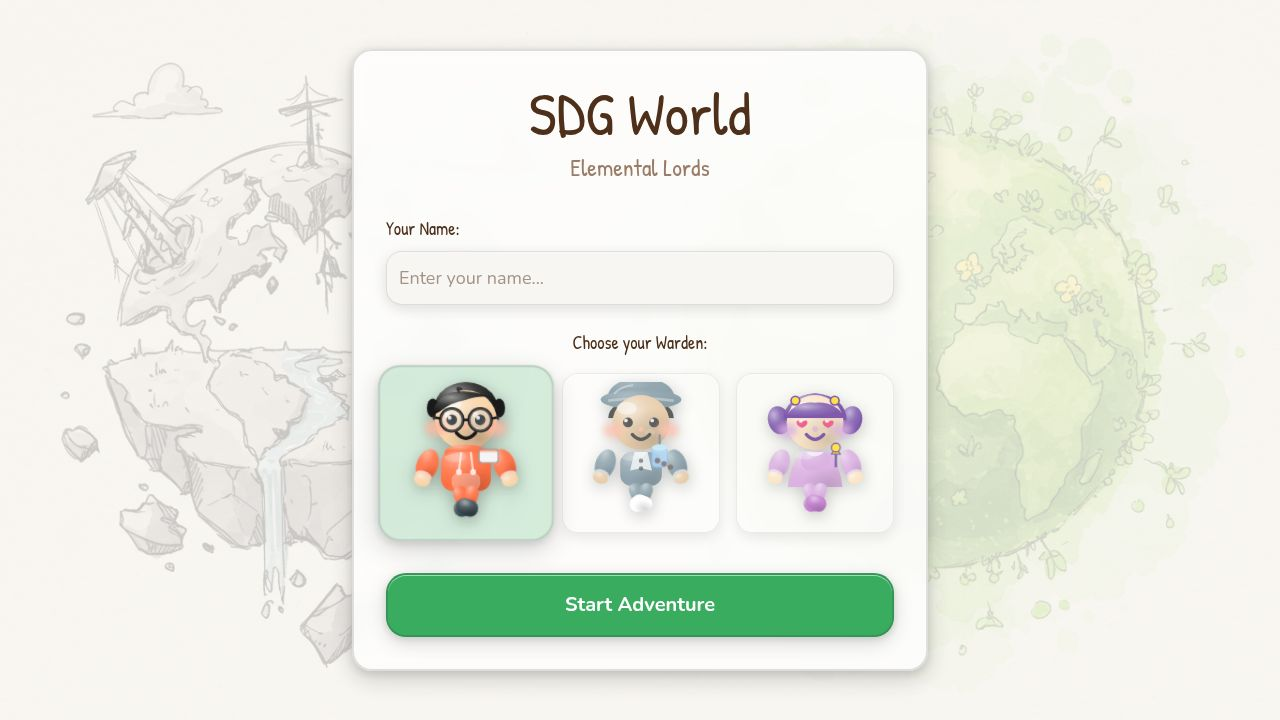
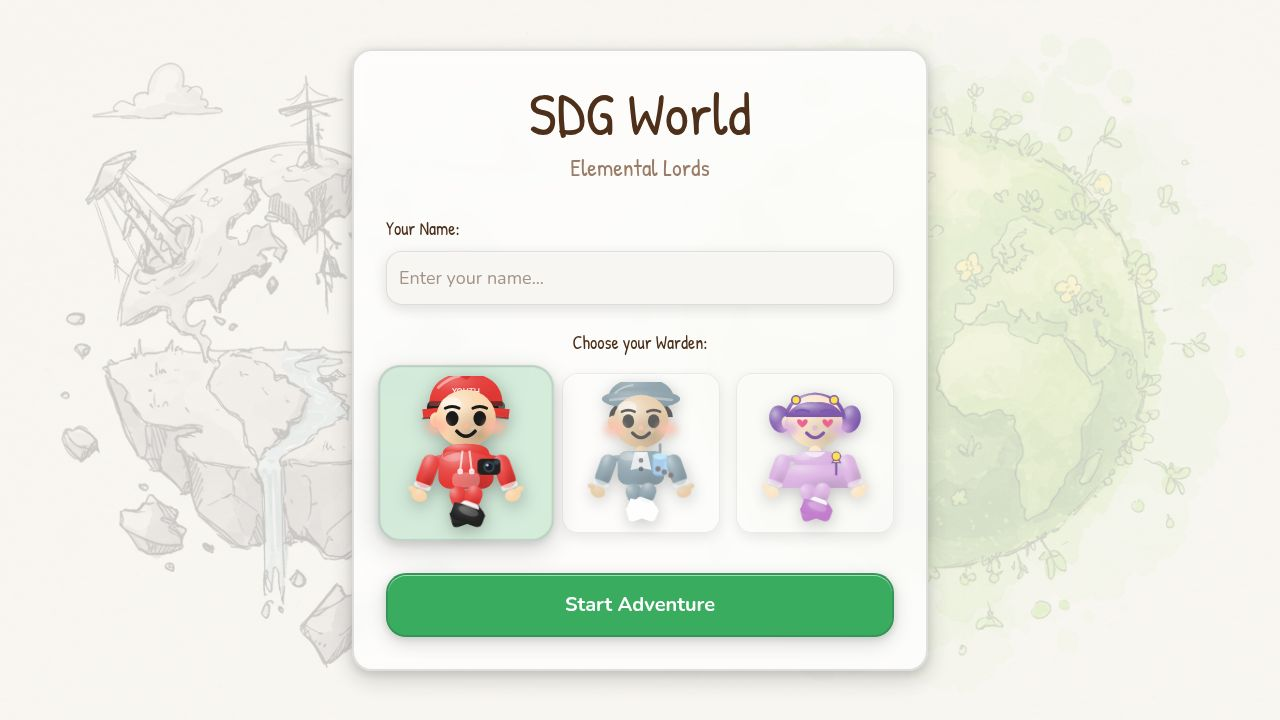
Update character appearance for a more realistic toy-like look
Refactors character rendering in Sprites.tsx to implement simpler eyes and more human-like body proportions, including updated arms, legs, neck, and shoes, while adjusting the viewBox.

Replit-Commit-Author: Agent
Replit-Commit-Session-Id: 5ccdf5bc-e649-49e1-9d17-90aec65a161f
Replit-Commit-Checkpoint-Type: full_checkpoint
Replit-Commit-Event-Id: a6274c83-2db0-4fce-a6d5-fd603afebf00
Replit-Commit-Screenshot-Url: https://storage.googleapis.com/screenshot-production-us-central1/ddc06cb5-4151-4347-ac95-d567a10546ce/5ccdf5bc-e649-49e1-9d17-90aec65a161f/QkIG3sg
Replit-Helium-Checkpoint-Created: true

Changed region(s): [[0.3125, 0.5194, 0.4062, 0.7333], [0.5938, 0.55, 0.6875, 0.7333], [0.4375, 0.55, 0.5625, 0.7028]]

diff --git a/artifacts/sdg-game/src/components/Sprites.tsx b/artifacts/sdg-game/src/components/Sprites.tsx
@@ -69,82 +69,43 @@ export const ChibiCharacter = ({
     determined: `M 43 50 L 57 50`,
   }[expression];
 
-  /* ── vinyl toy eye: large sclera → dark iris → pupil → catchlights ── */
+  /* ── clean amiibo-style eye: simple solid oval, no sclera detail ── */
   const eyeEl = (cx: number, cy: number) => {
     if (eyeStyle === 'crescent') return (
-      <g>
-        {/* sclera */}
-        <ellipse cx={cx} cy={cy} rx="8" ry="7.5" fill="white" />
-        <ellipse cx={cx} cy={cy} rx="8" ry="7.5" fill="none" stroke={hairColor} strokeWidth="1.5" opacity="0.5" />
-        {/* crescent/happy squint */}
-        <path d={`M ${cx-6} ${cy+1} Q ${cx} ${cy-8} ${cx+6} ${cy+1}`}
-          fill="none" stroke={hairColor} strokeWidth="3.5" strokeLinecap="round" />
-        <circle cx={cx-3} cy={cy-2} r="1.5" fill="white" opacity="0.75" />
-      </g>
+      /* happy closed eye — just a smooth curved stroke */
+      <path d={`M ${cx-6} ${cy+2} Q ${cx} ${cy-6} ${cx+6} ${cy+2}`}
+        fill="none" stroke={hairColor} strokeWidth="3.5" strokeLinecap="round" />
     );
     if (eyeStyle === 'hearts') return (
-      <g>
-        <ellipse cx={cx} cy={cy} rx="8.5" ry="8" fill="white" />
-        <path d={`M ${cx} ${cy+2} C ${cx} ${cy-2} ${cx-6} ${cy-4} ${cx-6} ${cy} C ${cx-6} ${cy+4} ${cx} ${cy+7} ${cx} ${cy+7} C ${cx} ${cy+7} ${cx+6} ${cy+4} ${cx+6} ${cy} C ${cx+6} ${cy-4} ${cx} ${cy-2} ${cx} ${cy+2} Z`} fill="#E91E63" />
-        <circle cx={cx-2} cy={cy-1} r="2" fill="white" opacity="0.8" />
-        <ellipse cx={cx} cy={cy} rx="8.5" ry="8" fill="none" stroke={hairColor} strokeWidth="1.5" opacity="0.4" />
-      </g>
+      <path d={`M ${cx} ${cy+1} C ${cx} ${cy-2} ${cx-5} ${cy-3} ${cx-5} ${cy} C ${cx-5} ${cy+3} ${cx} ${cy+6} ${cx} ${cy+6} C ${cx} ${cy+6} ${cx+5} ${cy+3} ${cx+5} ${cy} C ${cx+5} ${cy-3} ${cx} ${cy-2} ${cx} ${cy+1} Z`}
+        fill="#E91E63" />
     );
     if (eyeStyle === 'starry') return (
       <g>
-        {/* sclera */}
-        <ellipse cx={cx} cy={cy} rx="8.5" ry="8" fill="white" />
-        {/* iris — deep dark */}
-        <circle cx={cx} cy={cy+0.5} r="6" fill="#1A1A1A" />
-        {/* star burst */}
-        {[0,45,90,135,180,225,270,315].map((a,i) => {
-          const r = (a * Math.PI) / 180;
-          return <line key={i} x1={cx} y1={cy+0.5} x2={cx+5*Math.cos(r)} y2={cy+0.5+5*Math.sin(r)} stroke="#FFD700" strokeWidth="1" opacity="0.6" />;
-        })}
-        <circle cx={cx} cy={cy+0.5} r="3" fill="#1A1A1A" />
-        {/* catchlights */}
-        <circle cx={cx-2.5} cy={cy-2.5} r="2.5" fill="white" opacity="0.95" />
-        <circle cx={cx+2.5} cy={cy+2} r="1.3" fill="white" opacity="0.6" />
-        <ellipse cx={cx} cy={cy} rx="8.5" ry="8" fill="none" stroke={hairColor} strokeWidth="1.5" opacity="0.35" />
+        <ellipse cx={cx} cy={cy} rx="5.5" ry="6.5" fill={hairColor} />
+        <circle cx={cx-2} cy={cy-2.5} r="1.5" fill="white" opacity="0.85" />
+        <circle cx={cx+2} cy={cy+2} r="0.8" fill="white" opacity="0.6" />
       </g>
     );
-    /* dots — the default: big realistic vinyl toy eye */
-    return (
-      <g>
-        {/* sclera */}
-        <ellipse cx={cx} cy={cy} rx="8.5" ry="8" fill="white" />
-        {/* iris */}
-        <circle cx={cx} cy={cy+0.5} r="5.8" fill="#1A1010" />
-        {/* pupil */}
-        <circle cx={cx} cy={cy+0.5} r="3.2" fill="#0A0A0A" />
-        {/* main catchlight — big and bright */}
-        <circle cx={cx-2.8} cy={cy-2.5} r="2.8" fill="white" opacity="0.98" />
-        {/* secondary small catchlight */}
-        <circle cx={cx+2.6} cy={cy+2.4} r="1.3" fill="white" opacity="0.65" />
-        {/* subtle limbal ring / iris highlight */}
-        <circle cx={cx} cy={cy+0.5} r="5.8" fill="none" stroke="white" strokeWidth="0.8" opacity="0.15" />
-        {/* outline */}
-        <ellipse cx={cx} cy={cy} rx="8.5" ry="8" fill="none" stroke={hairColor} strokeWidth="1.5" opacity="0.35" />
-      </g>
-    );
+    /* dots / default — plain solid oval, clean amiibo look */
+    return <ellipse cx={cx} cy={cy} rx="5.5" ry="6.5" fill={hairColor} />;
   };
 
-  /* ── eyebrow shape per expression ── */
+  /* ── thin expressive eyebrows ── */
   const browEl = (cx: number) => {
-    const y = 27;
+    const y = 28;
     if (expression === 'sad')
-      return <path d={`M ${cx-7} ${y-1} Q ${cx} ${y+3} ${cx+7} ${y-1}`} fill="none" stroke={hairColor} strokeWidth="3.5" strokeLinecap="round" />;
+      return <path d={`M ${cx-6} ${y-1} Q ${cx} ${y+3} ${cx+6} ${y-1}`} fill="none" stroke={hairColor} strokeWidth="2.5" strokeLinecap="round" />;
     if (expression === 'surprised')
-      return <path d={`M ${cx-7} ${y+1} Q ${cx} ${y-4} ${cx+7} ${y+1}`} fill="none" stroke={hairColor} strokeWidth="3.5" strokeLinecap="round" />;
+      return <path d={`M ${cx-6} ${y+1} Q ${cx} ${y-4} ${cx+6} ${y+1}`} fill="none" stroke={hairColor} strokeWidth="2.5" strokeLinecap="round" />;
     if (expression === 'determined')
-      return <line x1={cx-7} y1={y+1} x2={cx+7} y2={y+1} stroke={hairColor} strokeWidth="3.5" strokeLinecap="round" />;
-    /* happy / default — gentle arch */
-    return <path d={`M ${cx-7} ${y} Q ${cx} ${y-4} ${cx+7} ${y}`} fill="none" stroke={hairColor} strokeWidth="3.5" strokeLinecap="round" />;
+      return <line x1={cx-6} y1={y} x2={cx+6} y2={y} stroke={hairColor} strokeWidth="2.5" strokeLinecap="round" />;
+    return <path d={`M ${cx-6} ${y} Q ${cx} ${y-3} ${cx+6} ${y}`} fill="none" stroke={hairColor} strokeWidth="2.5" strokeLinecap="round" />;
   };
 
   return (
     <svg
-      viewBox="0 0 100 130"
+      viewBox="0 0 100 134"
       className={cn("w-full h-full", isWalking && "animate-walk", className)}
       style={{ filter: 'drop-shadow(1px 4px 8px rgba(0,0,0,0.30))', ...style }}
     >
@@ -364,131 +325,156 @@ export const ChibiCharacter = ({
       {/* ════ HAIR ACCESSORY ════ */}
       {hairAccessory}
 
-      {/* ════ BODY — clay 3D ════ */}
+      {/* ════ NECK ════ */}
+      <rect x="44" y="60" width="12" height="13" rx="6" fill={skinColor} />
+      <rect x="44" y="60" width="12" height="13" rx="6" fill={HL} opacity="0.5" />
+
+      {/* ════ BODY — human-proportioned torso ════ */}
+
+      {/* --- Base torso shape (common to all outfits) --- */}
+      {/* Shoulders */}
+      <rect x="22" y="69" width="56" height="6" rx="5" fill={outfitColor} />
+      <rect x="22" y="69" width="56" height="6" rx="5" fill={BHL} />
+
       {outfitStyle === 'overalls' && (
         <>
-          <rect x="37" y="63" width="26" height="25" rx="8" fill={collarColor} />
-          <rect x="37" y="63" width="26" height="25" rx="8" fill={BHL} />
-          <rect x="31" y="64" width="38" height="31" rx="10" fill={outfitColor} />
-          <rect x="31" y="64" width="38" height="31" rx="10" fill={BHL} />
-          <rect x="31" y="64" width="38" height="31" rx="10" fill={BSH} />
-          <rect x="39" y="63" width="22" height="16" rx="7" fill={outfitColor} />
-          <rect x="39" y="63" width="22" height="16" rx="7" fill={BHL} />
-          <path d="M 39 65 Q 34 62 32 66" fill="none" stroke={outfitColor} strokeWidth="3.5" strokeLinecap="round" />
-          <path d="M 61 65 Q 66 62 68 66" fill="none" stroke={outfitColor} strokeWidth="3.5" strokeLinecap="round" />
-          <circle cx="50" cy="71" r="2.5" fill={hairColor} opacity="0.75" />
-          <ellipse cx="40" cy="67" rx="8" ry="4" fill="white" opacity="0.22" />
+          {/* Shirt underbase */}
+          <rect x="30" y="66" width="40" height="32" rx="8" fill={collarColor} />
+          <rect x="30" y="66" width="40" height="32" rx="8" fill={BHL} opacity="0.5" />
+          {/* Overall bib */}
+          <rect x="38" y="65" width="24" height="19" rx="6" fill={outfitColor} />
+          <rect x="38" y="65" width="24" height="19" rx="6" fill={BHL} />
+          {/* Overall body */}
+          <rect x="28" y="74" width="44" height="24" rx="7" fill={outfitColor} />
+          <rect x="28" y="74" width="44" height="24" rx="7" fill={BHL} />
+          <rect x="28" y="74" width="44" height="24" rx="7" fill={BSH} />
+          {/* Straps */}
+          <path d="M 38 67 Q 34 64 30 68" fill="none" stroke={outfitColor} strokeWidth="4" strokeLinecap="round" />
+          <path d="M 62 67 Q 66 64 70 68" fill="none" stroke={outfitColor} strokeWidth="4" strokeLinecap="round" />
+          <circle cx="50" cy="72" r="2.5" fill={hairColor} opacity="0.7" />
+          <ellipse cx="39" cy="69" rx="7" ry="3.5" fill="white" opacity="0.22" />
         </>
       )}
       {outfitStyle === 'dress' && (
         <>
-          <path d="M 37 64 Q 27 76 25 96 L 75 96 Q 73 76 63 64 Z" fill={outfitColor} />
-          <path d="M 37 64 Q 27 76 25 96 L 75 96 Q 73 76 63 64 Z" fill={BHL} />
-          <path d="M 37 64 Q 27 76 25 96 L 75 96 Q 73 76 63 64 Z" fill={BSH} />
-          <rect x="37" y="63" width="26" height="18" rx="9" fill={outfitColor} />
-          <rect x="37" y="63" width="26" height="18" rx="9" fill={BHL} />
-          <path d="M 42 64 Q 50 72 58 64" fill={collarColor} opacity="0.95" />
-          <ellipse cx="41" cy="67" rx="8" ry="4" fill="white" opacity="0.22" />
+          {/* Bodice */}
+          <rect x="30" y="65" width="40" height="20" rx="9" fill={outfitColor} />
+          <rect x="30" y="65" width="40" height="20" rx="9" fill={BHL} />
+          {/* Skirt flare */}
+          <path d="M 30 78 Q 18 88 16 100 L 84 100 Q 82 88 70 78 Z" fill={outfitColor} />
+          <path d="M 30 78 Q 18 88 16 100 L 84 100 Q 82 88 70 78 Z" fill={BHL} />
+          <path d="M 30 78 Q 18 88 16 100 L 84 100 Q 82 88 70 78 Z" fill={BSH} />
+          <path d="M 40 66 Q 50 76 60 66" fill={collarColor} opacity="0.95" />
+          <ellipse cx="38" cy="70" rx="8" ry="4" fill="white" opacity="0.22" />
         </>
       )}
       {outfitStyle === 'jacket' && (
         <>
-          <rect x="31" y="64" width="38" height="31" rx="10" fill={outfitColor} />
-          <rect x="31" y="64" width="38" height="31" rx="10" fill={BHL} />
-          <rect x="31" y="64" width="38" height="31" rx="10" fill={BSH} />
-          <path d="M 44 64 Q 50 74 56 64" fill={collarColor} />
-          <path d="M 44 64 L 40 81 L 50 79 L 60 81 L 56 64" fill={collarColor} opacity="0.88" />
-          <circle cx="50" cy="72" r="2" fill={hairColor} opacity="0.65" />
-          <circle cx="50" cy="79" r="2" fill={hairColor} opacity="0.65" />
-          <ellipse cx="40" cy="68" rx="8" ry="4" fill="white" opacity="0.22" />
+          <rect x="28" y="65" width="44" height="32" rx="9" fill={outfitColor} />
+          <rect x="28" y="65" width="44" height="32" rx="9" fill={BHL} />
+          <rect x="28" y="65" width="44" height="32" rx="9" fill={BSH} />
+          {/* Lapels */}
+          <path d="M 44 66 Q 50 76 56 66" fill={collarColor} />
+          <path d="M 44 66 L 40 83 L 50 81 L 60 83 L 56 66" fill={collarColor} opacity="0.88" />
+          <circle cx="50" cy="74" r="2.2" fill={hairColor} opacity="0.65" />
+          <circle cx="50" cy="82" r="2.2" fill={hairColor} opacity="0.65" />
+          <ellipse cx="38" cy="70" rx="8" ry="4" fill="white" opacity="0.22" />
         </>
       )}
       {outfitStyle === 'uniform' && (
         <>
-          <rect x="33" y="64" width="34" height="29" rx="9" fill={outfitColor} />
-          <rect x="33" y="64" width="34" height="29" rx="9" fill={BHL} />
-          <rect x="33" y="64" width="34" height="29" rx="9" fill={BSH} />
-          <rect x="42" y="63" width="16" height="12" rx="6" fill={collarColor} />
-          <rect x="35" y="71" width="12" height="10" rx="3" fill={collarColor} opacity="0.9" />
-          <text x="41" y="78.5" textAnchor="middle" fontSize="5" fill={hairColor}>✦</text>
-          <ellipse cx="43" cy="68" rx="8" ry="4" fill="white" opacity="0.22" />
+          <rect x="30" y="65" width="40" height="31" rx="9" fill={outfitColor} />
+          <rect x="30" y="65" width="40" height="31" rx="9" fill={BHL} />
+          <rect x="30" y="65" width="40" height="31" rx="9" fill={BSH} />
+          <rect x="41" y="64" width="18" height="12" rx="6" fill={collarColor} />
+          <rect x="32" y="73" width="14" height="11" rx="3" fill={collarColor} opacity="0.9" />
+          <text x="39" y="81" textAnchor="middle" fontSize="5" fill={hairColor}>✦</text>
+          <ellipse cx="40" cy="70" rx="8" ry="4" fill="white" opacity="0.22" />
         </>
       )}
       {outfitStyle === 'coat' && (
         <>
-          <rect x="29" y="64" width="42" height="33" rx="10" fill={outfitColor} />
-          <rect x="29" y="64" width="42" height="33" rx="10" fill={BHL} />
-          <rect x="29" y="64" width="42" height="33" rx="10" fill={BSH} />
-          <rect x="43" y="63" width="14" height="20" rx="6" fill={collarColor} opacity="0.9" />
-          <circle cx="50" cy="74" r="2.2" fill={hairColor} opacity="0.7" />
-          <circle cx="50" cy="81" r="2.2" fill={hairColor} opacity="0.7" />
-          <circle cx="50" cy="88" r="2.2" fill={hairColor} opacity="0.7" />
-          <ellipse cx="41" cy="68" rx="9" ry="4.5" fill="white" opacity="0.22" />
+          <rect x="26" y="65" width="48" height="33" rx="10" fill={outfitColor} />
+          <rect x="26" y="65" width="48" height="33" rx="10" fill={BHL} />
+          <rect x="26" y="65" width="48" height="33" rx="10" fill={BSH} />
+          <rect x="42" y="64" width="16" height="22" rx="7" fill={collarColor} opacity="0.9" />
+          <circle cx="50" cy="76" r="2.5" fill={hairColor} opacity="0.7" />
+          <circle cx="50" cy="84" r="2.5" fill={hairColor} opacity="0.7" />
+          <circle cx="50" cy="92" r="2.5" fill={hairColor} opacity="0.7" />
+          <ellipse cx="38" cy="70" rx="9" ry="4.5" fill="white" opacity="0.22" />
         </>
       )}
       {outfitStyle === 'hoodie' && (
         <>
-          {/* Hoodie body */}
-          <rect x="29" y="63" width="42" height="34" rx="10" fill={outfitColor} />
-          <rect x="29" y="63" width="42" height="34" rx="10" fill={BHL} />
-          <rect x="29" y="63" width="42" height="34" rx="10" fill={BSH} />
-          {/* Hood collar behind head (drawn before head in z-order but fine here) */}
-          <path d="M 32 64 Q 34 58 50 58 Q 66 58 68 64 L 68 68 Q 60 64 50 64 Q 40 64 32 68 Z" fill={outfitColor} />
-          <path d="M 32 64 Q 34 58 50 58 Q 66 58 68 64 L 68 68 Q 60 64 50 64 Q 40 64 32 68 Z" fill={BHL} />
-          {/* Drawstrings */}
-          <line x1="46" y1="64" x2="44" y2="80" stroke={collarColor} strokeWidth="1.8" opacity="0.7" />
-          <line x1="54" y1="64" x2="56" y2="80" stroke={collarColor} strokeWidth="1.8" opacity="0.7" />
-          <ellipse cx="44" cy="81" rx="2.5" ry="2.5" fill={collarColor} opacity="0.8" />
-          <ellipse cx="56" cy="81" rx="2.5" ry="2.5" fill={collarColor} opacity="0.8" />
-          {/* Kangaroo pocket */}
-          <rect x="38" y="82" width="24" height="14" rx="5" fill={collarColor} opacity="0.3" />
-          <ellipse cx="41" cy="68" rx="9" ry="4.5" fill="white" opacity="0.20" />
+          <rect x="26" y="65" width="48" height="33" rx="10" fill={outfitColor} />
+          <rect x="26" y="65" width="48" height="33" rx="10" fill={BHL} />
+          <rect x="26" y="65" width="48" height="33" rx="10" fill={BSH} />
+          {/* Hood cowl */}
+          <path d="M 30 66 Q 32 59 50 59 Q 68 59 70 66 L 70 71 Q 62 66 50 66 Q 38 66 30 71 Z" fill={outfitColor} />
+          <path d="M 30 66 Q 32 59 50 59 Q 68 59 70 66 L 70 71 Q 62 66 50 66 Q 38 66 30 71 Z" fill={BHL} />
+          <line x1="47" y1="65" x2="45" y2="82" stroke={collarColor} strokeWidth="1.8" opacity="0.7" />
+          <line x1="53" y1="65" x2="55" y2="82" stroke={collarColor} strokeWidth="1.8" opacity="0.7" />
+          <ellipse cx="45" cy="83" rx="2.5" ry="2.5" fill={collarColor} opacity="0.8" />
+          <ellipse cx="55" cy="83" rx="2.5" ry="2.5" fill={collarColor} opacity="0.8" />
+          <rect x="38" y="84" width="24" height="13" rx="5" fill={collarColor} opacity="0.3" />
+          <ellipse cx="38" cy="70" rx="9" ry="4.5" fill="white" opacity="0.20" />
         </>
       )}
 
-      {/* ════ ARMS — outfit sleeves with skin hands ════ */}
+      {/* ════ ARMS — long human arms with hands ════ */}
+      {/* Left arm */}
       <g className="chibi-arm-l">
-        {/* Sleeve */}
-        <ellipse cx="21" cy="76" rx="9" ry="14" fill={outfitColor} />
-        <ellipse cx="21" cy="76" rx="9" ry="14" fill={BHL} />
-        <ellipse cx="21" cy="76" rx="9" ry="14" fill={BSH} />
-        {/* Cuff highlight */}
-        <ellipse cx="21" cy="85" rx="7" ry="3.5" fill={collarColor} opacity="0.7" />
-        {/* Hand */}
-        <ellipse cx="21" cy="89" rx="7" ry="5.5" fill={skinColor} />
-        <ellipse cx="21" cy="89" rx="7" ry="5.5" fill={HL} />
+        {/* Upper sleeve */}
+        <rect x="13" y="68" width="15" height="30" rx="7.5" fill={outfitColor} />
+        <rect x="13" y="68" width="15" height="30" rx="7.5" fill={BHL} />
+        <rect x="13" y="68" width="15" height="30" rx="7.5" fill={BSH} />
+        {/* Cuff */}
+        <rect x="13" y="94" width="15" height="5" rx="2.5" fill={collarColor} opacity="0.65" />
+        {/* Hand — open oval paddle */}
+        <ellipse cx="20.5" cy="105" rx="7" ry="5.5" fill={skinColor} />
+        <ellipse cx="20.5" cy="105" rx="7" ry="5.5" fill={HL} opacity="0.5" />
+        {/* Thumb nub */}
+        <ellipse cx="13" cy="102" rx="3.5" ry="2.5" fill={skinColor} />
+        <ellipse cx="13" cy="102" rx="3.5" ry="2.5" fill={HL} opacity="0.4" />
       </g>
+      {/* Right arm */}
       <g className="chibi-arm-r">
-        {/* Sleeve */}
-        <ellipse cx="79" cy="76" rx="9" ry="14" fill={outfitColor} />
-        <ellipse cx="79" cy="76" rx="9" ry="14" fill={BHL} />
-        <ellipse cx="79" cy="76" rx="9" ry="14" fill={BSH} />
-        {/* Cuff highlight */}
-        <ellipse cx="79" cy="85" rx="7" ry="3.5" fill={collarColor} opacity="0.7" />
-        {/* Hand */}
-        <ellipse cx="79" cy="89" rx="7" ry="5.5" fill={skinColor} />
-        <ellipse cx="79" cy="89" rx="7" ry="5.5" fill={HL} />
+        <rect x="72" y="68" width="15" height="30" rx="7.5" fill={outfitColor} />
+        <rect x="72" y="68" width="15" height="30" rx="7.5" fill={BHL} />
+        <rect x="72" y="68" width="15" height="30" rx="7.5" fill={BSH} />
+        <rect x="72" y="94" width="15" height="5" rx="2.5" fill={collarColor} opacity="0.65" />
+        <ellipse cx="79.5" cy="105" rx="7" ry="5.5" fill={skinColor} />
+        <ellipse cx="79.5" cy="105" rx="7" ry="5.5" fill={HL} opacity="0.5" />
+        <ellipse cx="87" cy="102" rx="3.5" ry="2.5" fill={skinColor} />
+        <ellipse cx="87" cy="102" rx="3.5" ry="2.5" fill={HL} opacity="0.4" />
       </g>
 
       {/* Item / prop */}
-      {item && <g transform="translate(65, 62)">{item}</g>}
+      {item && <g transform="translate(66, 72)">{item}</g>}
 
-      {/* ════ LEGS / BOOTS — clay rounded ════ */}
+      {/* ════ LEGS — separated with socks + chunky amiibo shoes ════ */}
       <g className="chibi-leg-l">
-        <rect x="37" y="93" width="12" height="19" rx="6" fill={outfitColor} />
-        <rect x="37" y="93" width="12" height="19" rx="6" fill={BHL} />
-        <rect x="37" y="93" width="12" height="19" rx="6" fill={BSH} />
-        <rect x="33" y="105" width="19" height="14" rx="7" fill={bootColor} />
-        <rect x="33" y="105" width="19" height="14" rx="7" fill={HL} />
-        <rect x="33" y="105" width="19" height="14" rx="7" fill={SH} />
+        {/* Pant leg */}
+        <rect x="33" y="96" width="15" height="19" rx="7.5" fill={outfitColor} />
+        <rect x="33" y="96" width="15" height="19" rx="7.5" fill={BHL} />
+        <rect x="33" y="96" width="15" height="19" rx="7.5" fill={BSH} />
+        {/* Sock */}
+        <rect x="32" y="111" width="16" height="7" rx="4" fill="white" opacity="0.92" />
+        {/* Shoe — big amiibo-style, pointing slightly left */}
+        <path d="M 28 116 L 27 126 Q 27 130 33 130 L 50 130 Q 56 130 56 125 L 54 118 Q 52 115 47 115 L 33 115 Z" fill={bootColor} />
+        <path d="M 28 116 L 27 126 Q 27 130 33 130 L 50 130 Q 56 130 56 125 L 54 118 Q 52 115 47 115 L 33 115 Z" fill={HL} opacity="0.4" />
+        {/* Toe highlight */}
+        <ellipse cx="40" cy="119" rx="9" ry="4" fill="white" opacity="0.2" />
       </g>
       <g className="chibi-leg-r">
-        <rect x="51" y="93" width="12" height="19" rx="6" fill={outfitColor} />
-        <rect x="51" y="93" width="12" height="19" rx="6" fill={BHL} />
-        <rect x="51" y="93" width="12" height="19" rx="6" fill={BSH} />
-        <rect x="48" y="105" width="19" height="14" rx="7" fill={bootColor} />
-        <rect x="48" y="105" width="19" height="14" rx="7" fill={HL} />
-        <rect x="48" y="105" width="19" height="14" rx="7" fill={SH} />
+        <rect x="52" y="96" width="15" height="19" rx="7.5" fill={outfitColor} />
+        <rect x="52" y="96" width="15" height="19" rx="7.5" fill={BHL} />
+        <rect x="52" y="96" width="15" height="19" rx="7.5" fill={BSH} />
+        <rect x="52" y="111" width="16" height="7" rx="4" fill="white" opacity="0.92" />
+        {/* Shoe — pointing slightly right */}
+        <path d="M 46 116 L 46 125 Q 46 130 52 130 L 69 130 Q 75 130 75 125 L 75 118 Q 73 115 68 115 L 52 115 Z" fill={bootColor} />
+        <path d="M 46 116 L 46 125 Q 46 130 52 130 L 69 130 Q 75 130 75 125 L 75 118 Q 73 115 68 115 L 52 115 Z" fill={HL} opacity="0.4" />
+        <ellipse cx="60" cy="119" rx="9" ry="4" fill="white" opacity="0.2" />
       </g>
     </svg>
   );
